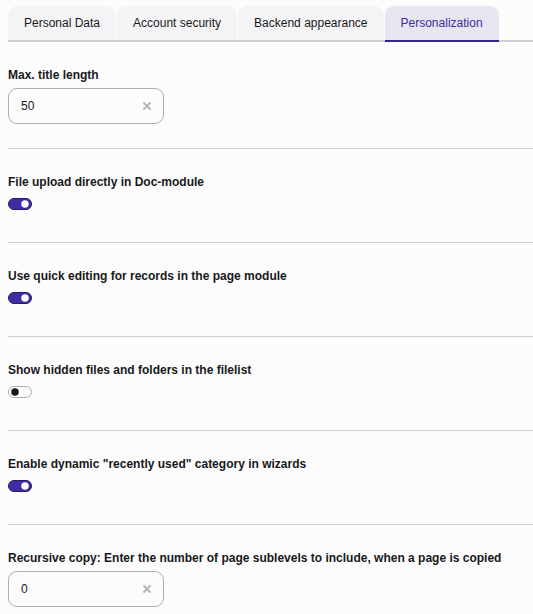
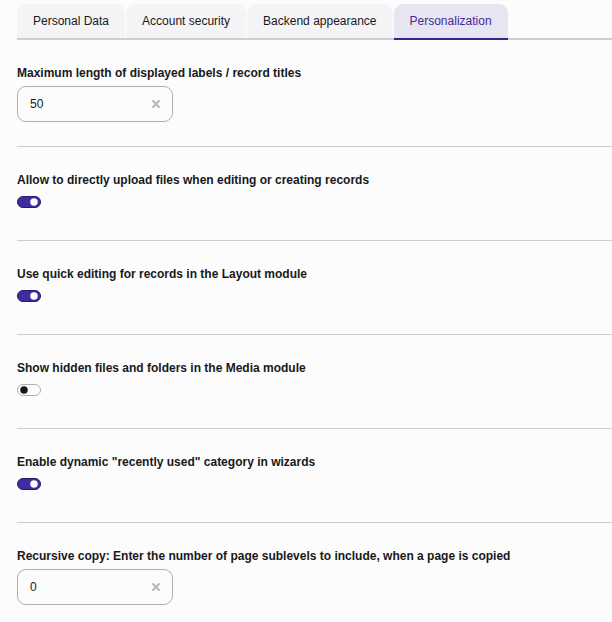
[TASK] Review changes

diff --git a/Documentation/UserSettings/Personalization/Index.rst b/Documentation/UserSettings/Personalization/Index.rst
@@ -1,27 +1,32 @@
+:navigation-title: Personalization
+
 ..  include:: /Includes.rst.txt
 
-..  _usersettings-personalization:
+..  _user-settings-personalization:
 
-===============
-Personalization
-===============
+=====================================================
+Fine-tune editing, uploads and copying in the backend
+=====================================================
 
-More settings to fine-tune your workspace behavior.
+These settings change how the backend behaves while you work.
 
-*   **Max. title length:** Limit the character length of page and record titles
-    displayed in lists to keep your workspace clean.
-*   **File upload directly in Doc-module:** Enable or disable the direct file
-    dropzone and upload button inside your form editing views.
-*   **Use quick editing for records in the page module:** Skip the full record
-    view and open a streamlined editor when clicking on content elements.
-*   **Enable dynamic "recently used" category in wizards:** Allow content
-    element wizards to track and display your most frequently used elements
-    at the top.
-*   **Recursive copy.. :** Toggle whether copying a page should automatically
-    copy all of its sub-pages and nested content as well.
+*   **Maximum length of displayed labels / record titles:** How many
+    characters of a title are shown in lists before it is shortened. Between
+    10 and 255, 50 by default.
+*   **Allow to directly upload files when editing or creating records:** Shows
+    a drop zone and an upload button in file fields when you edit a record.
+*   **Use quick editing for records in the Layout module:** Opens content
+    elements in a small editing form instead of the full record view.
+*   **Show hidden files and folders in the Media module:** Shows files and
+    folders that TYPO3 normally hides.
+*   **Enable dynamic "recently used" category in wizards:** Puts the elements
+    you use most at the top of the wizards.
+*   **Recursive copy: Enter the number of page sublevels to include, when a
+    page is copied:** How many levels below a copied page are copied with it.
+    `0` copies just the page.
 
-..  figure:: ../../Images/ManualScreenshots/UserSettings/UserSettingsPersonalization.png
-    :alt: The personalization tab in the user settings module
+..  figure:: /Images/ManualScreenshots/UserSettings/UserSettingsPersonalization.png
+    :alt: The Personalization tab with six settings, from the maximum title length to recursive copy
     :zoom: lightbox
 
-    The personalization tab in the user settings module
+    The Personalization tab
